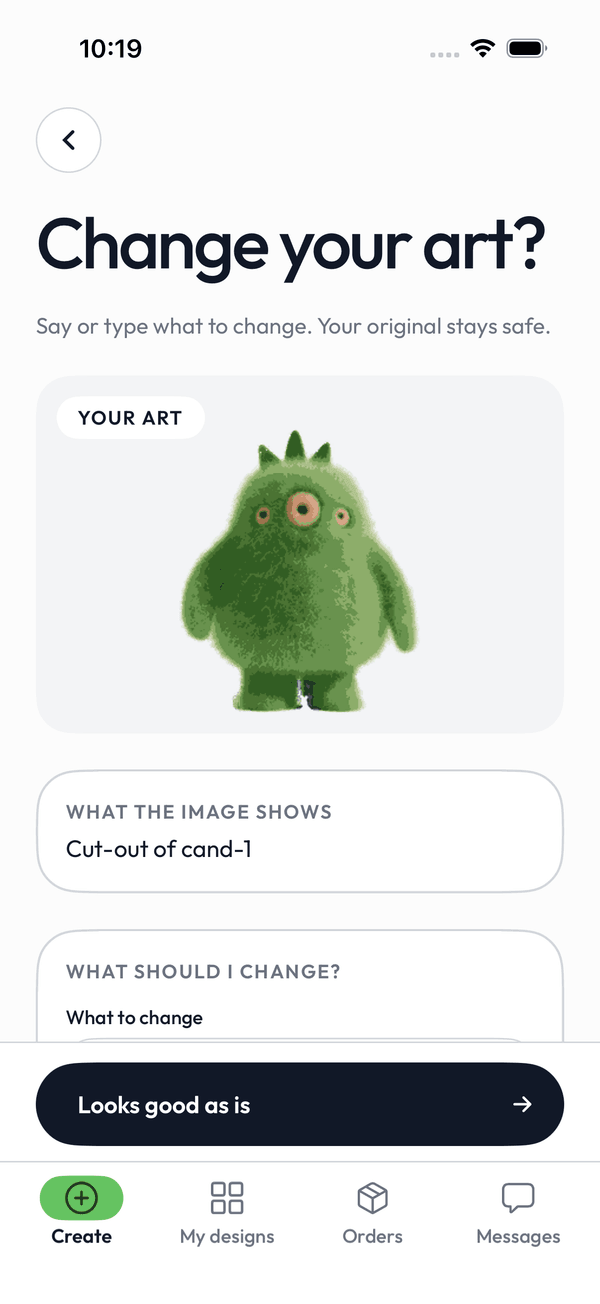
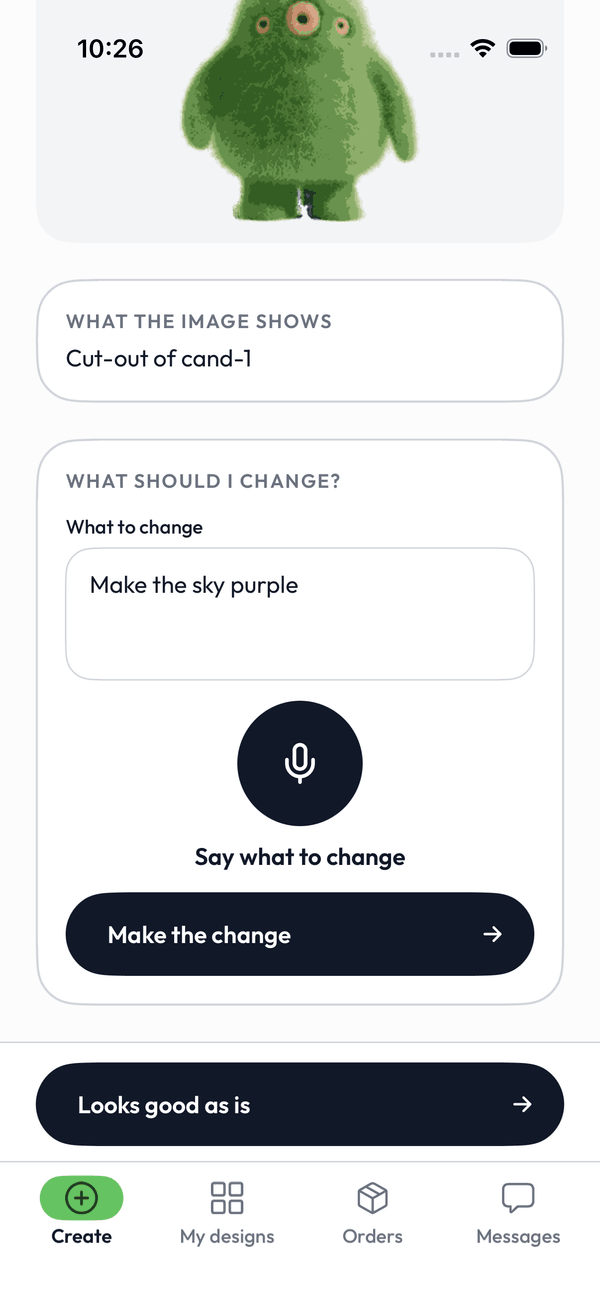
T116 docs: fix round 1 – Change it shot shows the field and mic, honest Before and after alt text, shop shot at 1200 px, Question board not built, progress wording

diff --git a/docs/progress.md b/docs/progress.md
@@ -295,7 +295,7 @@ Smoke data in the shared database from tonight: an order by "T050 Smoke Buyer" (
 
 ## T116 docs · Release docs for v0.8-rc1 (2026-11-02)
 - `docs/deployments.md`: `v0.8-rc1` tagged `569966b` on 2026-11-02, production promotion pending (product owner, after migration 0004); TestFlight 0.5.0 build 3 pending; `v0.8` pending.
-- README screenshots retaken on v0.8-rc1: iOS Change it (`docs/images/ios-change-it.png`) and Before and after (`ios-before-after.png`) from the simulator driven by the UI test `ChangeItUITests` against a scratch copy of the mock that served the mascot as the picture (the stock mock serves a 1×1 image), and the new shop home at 1440 px (`web-shop-home.png`, local dev server, dev badge cropped). The old Welcome and What do you want to make shots are removed. Each is ≤ 1200 px wide and ≤ 130 KB.
+- README screenshots retaken on v0.8-rc1: iOS Change it (`docs/images/ios-change-it.png`) and Before and after (`ios-before-after.png`) from the simulator driven by the UI test `ChangeItUITests` against a scratch copy of the mock that served the mascot as the picture (the stock mock serves a 1×1 image), and the new shop home at 1440 px (`web-shop-home.png`, local dev server, dev badge cropped). The old Welcome and What do you want to make shots are removed. The iOS shots are 600 px wide and the shop shot 1200 px wide (captured at 1440), each ≤ 130 KB.
 - `docs/demo_script.md` and `docs/accessibility.md` checked quote by quote against `Localizable.xcstrings` and `web/messages/en.json`. Fixed: iOS Change it is one screen (the words land in the "What to change" field, VoiceOver says "You said: …", no "YOU SAID" card, no "Type instead" button, no clarifying question); the web Changing status line reads "This takes about a minute. Tag is working on it."; the web microphone-off screen shows both its lead and its alert card; "Place order · <price>". The Your cutout script already matched the app ("Your photo", "Box around your art", "Add the area around your art", "Added area, mark n" / "Left out, mark n").
 - `docs/design/screens.md`: every v3 row is `implemented (T112)` (static pages, admin trace), `implemented (T113)` (web creator boards) or `implemented (T114)` (iOS boards); routes and components of the web rows and the iOS views follow the v3 code.
-- Unfinished: the VoiceOver scripts are still not run by ear on a device or a build; the Home, My designs and Messages row stays `pending`; no clip or image of Choose a pattern (the generated test photo is a block placeholder).
+- Unfinished: the VoiceOver scripts are still not run by ear on a device or a build; the Home, My designs and Messages row stays `pending`; the Change it · Question board `2026:3098` is not built (the change API returns no question); no clip or image of Choose a pattern (the generated test photo is a block placeholder).

diff --git a/README.md b/README.md
@@ -7,13 +7,13 @@ This is our entry for the Meta Global AI Developer Hackathon (Startups track, "B
 ## Screenshots
 
 <p>
-  <img width="280" src="docs/images/ios-change-it.png" alt="The iOS app's Change your art? screen: your picked drawing on a card, a description of what the image shows, a field for what to change, and a Looks good as is button">
-  <img width="280" src="docs/images/ios-before-after.png" alt="The iOS app's Here's the change screen: the request Make the sky purple, Before and After pictures side by side, and the buttons Use this, Change it again and Back to my original">
+  <img width="280" src="docs/images/ios-change-it.png" alt="The iOS app's Change your art? screen: your picked drawing on a card, a description of what the image shows, the What to change field with the words Make the sky purple typed in, the Say what to change microphone button, Make the change, and a Looks good as is button">
+  <img width="280" src="docs/images/ios-before-after.png" alt="The iOS app's Here's the change screen: the request Make the sky purple, Before and After pictures side by side (the same sample mascot on both sides, because the mock makes no real edit), and the buttons Use this, Change it again and Back to my original">
 </p>
 
 ![The shop home page at desktop width: the eyebrow "Stickers & totes by disabled artists", the headline "Art with a story in every piece.", the buttons Shop new arrivals and How story tags work, and a photo of the green mascot holding tote bags with a Tap the tag card](docs/images/web-shop-home.png)
 
-The iOS shots (v0.8-rc1) come from the simulator running against the mock API (`ios/scripts/mock_api.py`), with the mascot standing in for the drawing and the change result; the shop shot is the local dev server at 1440 px. Mascot and sky imagery: The 3rd Eye design team.
+The iOS shots (v0.8-rc1) come from the simulator running against the mock API (`ios/scripts/mock_api.py`), with the mascot standing in for the drawing and the change result; the shop shot is the local dev server, captured at 1440 px and shown here at 1200 px. Mascot and sky imagery: The 3rd Eye design team.
 
 ## Try it in 3 minutes
 

diff --git a/docs/design/screens.md b/docs/design/screens.md
@@ -25,7 +25,7 @@ Status: **pending (v3, T110)** = the board changed or is new in v3 and the scree
 | `2026:2959` | Choose product · Web · Sky | Choose product | `/create/product` · `ChooseProduct` | — (web board) | implemented (T105) |
 | `2026:2998` | Choose method · Web · Sky | Choose method: "How do you want to add your art?", photo and upload only ("Say it out loud" `2026:3046` removed) | `/create/method` · `ChooseMethod` | — (web board) | implemented (T113) |
 | `2026:3067` | Change it · Listening · Web · Sky (was Speak · Listening) | Change your art, listening (Art preview "Your art", seconds, Stop, Type instead) | `/create/change` · `ChangeIt`, `ChangeItView` | — (web board) | implemented (T113) |
-| `2026:3098` | Change it · Question · Web · Sky (was Speak · Question) | Clarifying question about the change | `/create/change` · `ChangeIt`, `ChangeItView` | — (web board) | implemented (T113) |
+| `2026:3098` | Change it · Question · Web · Sky (was Speak · Question) | Clarifying question about the change | `/create/change` · `ChangeIt`, `ChangeItView` | — (web board) | not built (API returns no question) |
 | `2026:3135` | Change it · Microphone off · Web · Sky (was Speak · Microphone off) | Microphone off: type what to change, Make the change | `/create/change` · `ChangeIt`, `ChangeItView` | — (web board) | implemented (T113) |
 | `2027:3042` | Changing your art · Web · Sky (was Drawing your idea) | Changing your art (Art preview instead of the sky card) | `/create/changing` · `Changing` | — (web board) | implemented (T113) |
 | `2027:3062` | Changing your art · Error · Web · Sky | The change did not work this time; Try again, Back to my art | `/create/changing` · `Changing` | — (web board) | implemented (T113) |
